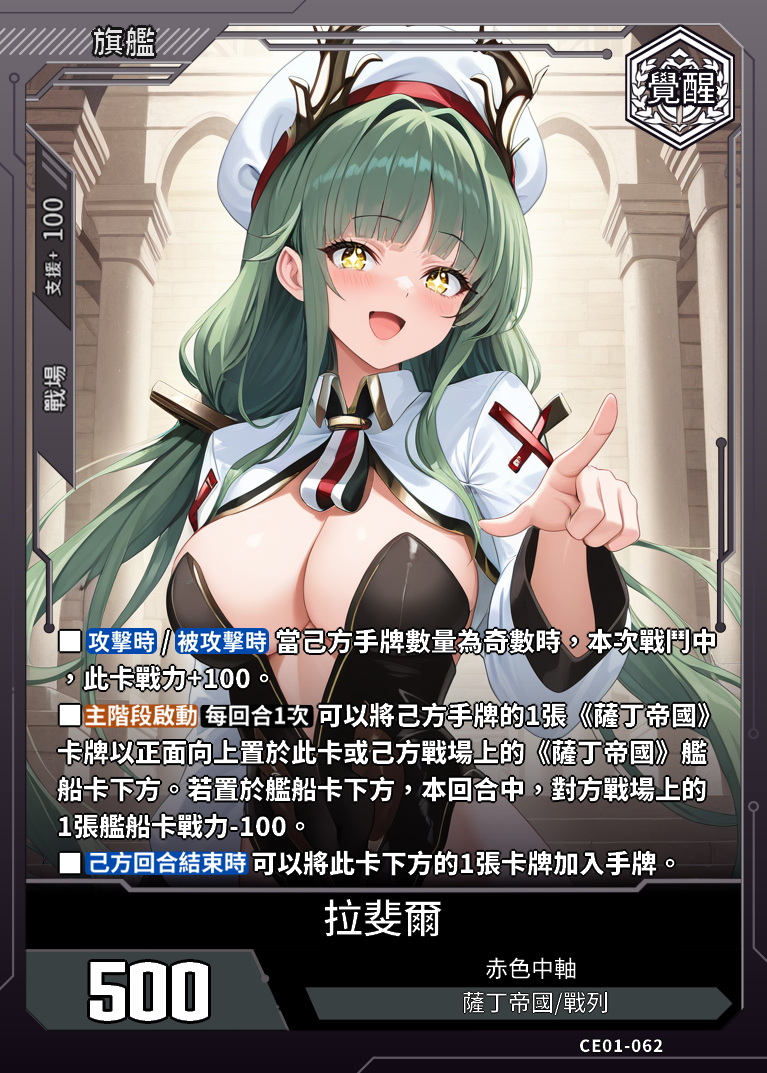
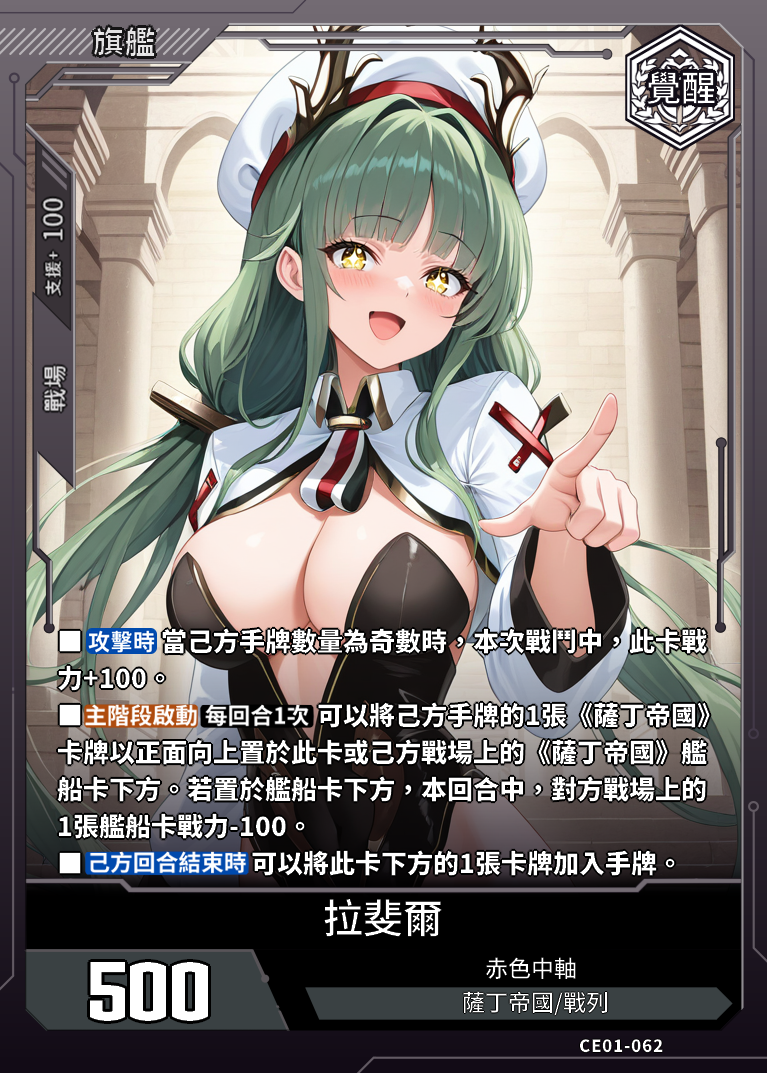
更新

Changed region(s): [[0.06, 0.5843, 0.9296, 0.6459]]

diff --git a/data.js b/data.js
@@ -23082,7 +23082,7 @@ const cards = [
             "支援範圍": "戰場",
             "支援值": "100"
         },
-        "card_effect": "■【攻擊時】/【攻擊時】當己方手牌數量為奇數時，本次戰鬥中，此卡戰力+100。■【主階段啟動】【每回合1次】可以將己方手牌的1張《薩丁帝國》卡牌以正面向上置於此卡下方。■【己方回合結束時】可以將此卡下方1張卡牌加入手牌。■【覺醒】己方的旗艦耐久為1或以下時，將此卡轉為反面。之後，將己方卡組最上方1張卡正面向上置於此卡下方。",
+        "card_effect": "■【主階段啟動】【每回合1次】可以將己方手牌的1張《薩丁帝國》卡牌以正面向上置於此卡下方。■【己方回合結束時】可以將此卡下方1張卡牌加入手牌。■【覺醒】己方的旗艦耐久為1或以下時，將此卡轉為反面。之後，將己方卡組最上方1張卡正面向上置於此卡下方。",
         "acquisition_method": "CE01"
     },
     {
@@ -23101,7 +23101,7 @@ const cards = [
             "支援範圍": "戰場",
             "支援值": "100"
         },
-        "card_effect": "■【攻擊時】/【被攻擊時】當己方手牌數量為奇數時，本次戰鬥中，此卡戰力+100。■【主階段啟動】【每回合1次】可以將己方手牌的1張《薩丁帝國》卡牌以正面向上置於此卡或己方戰場上的《薩丁帝國》艦船卡下方。若置於艦船卡下方，本回合中，該卡戰力+100。■【己方回合結束時】可以將此卡下方1張卡牌加入手牌。",
+        "card_effect": "■【攻擊時】當己方手牌數量為奇數時，本次戰鬥中，此卡戰力+100。■【主階段啟動】【每回合1次】可以將己方手牌的1張《薩丁帝國》卡牌以正面向上置於此卡或己方戰場上的《薩丁帝國》艦船卡下方。若置於艦船卡下方，本回合中，該卡戰力+100。■【己方回合結束時】可以將此卡下方1張卡牌加入手牌。",
         "acquisition_method": "CE01"
     },
     {
